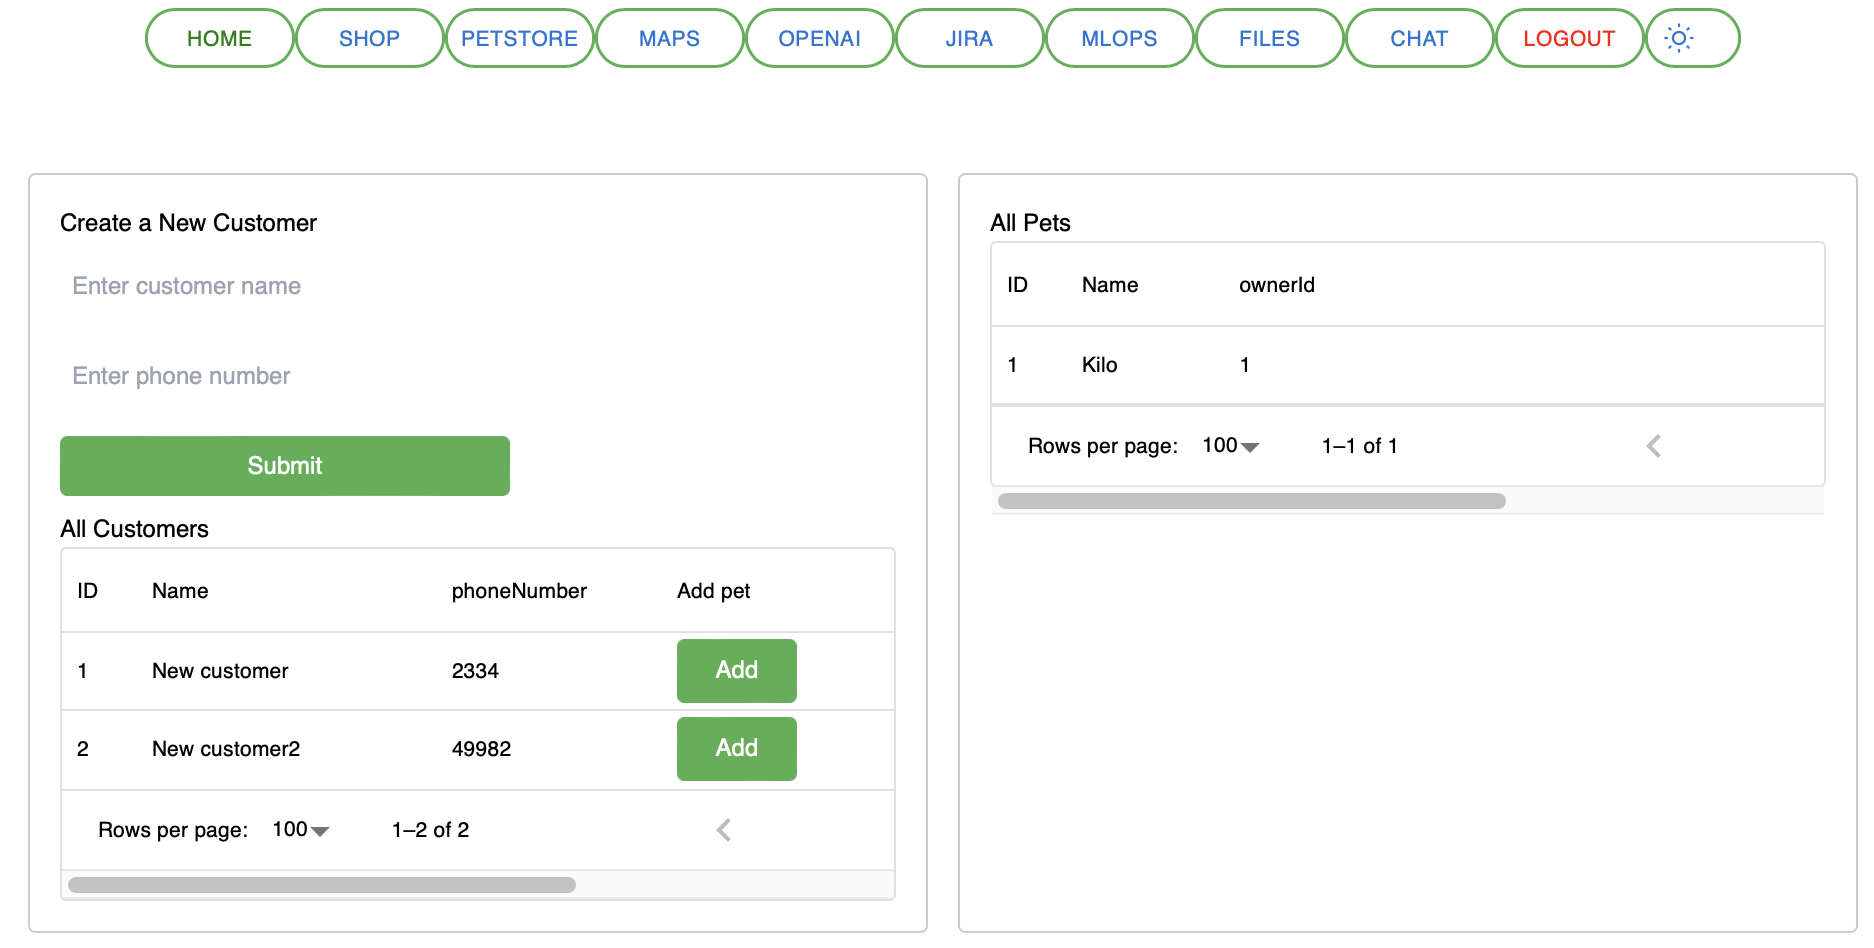
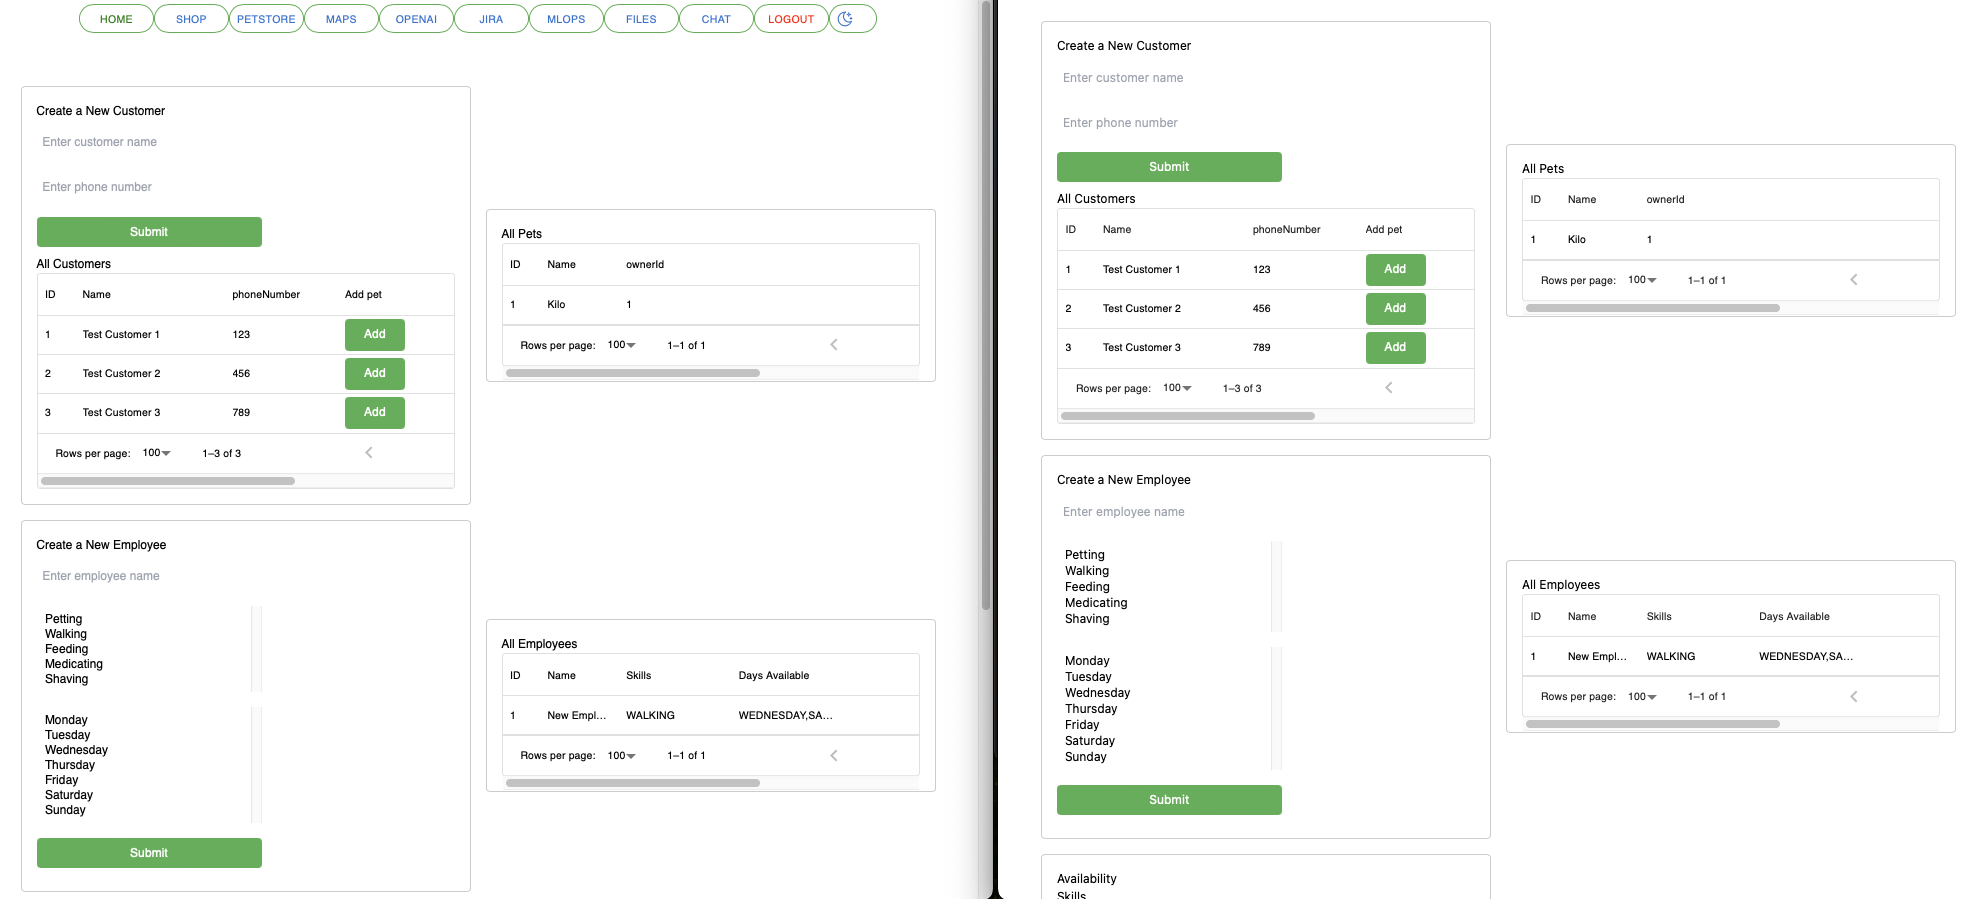
- add README instructions for all implemented MFEs - control NEXT env variables from docker-compose-app.yml

diff --git a/frontend/remote/openai/pages/index.tsx b/frontend/remote/openai/pages/index.tsx
@@ -115,10 +115,10 @@ export default function Index(this: any) {
     };
 
     return (
-        <>
-                    <div className="login-top">
-                        <h1>{("Send a OpenAI Completition request")}</h1>
-                    </div>
+        <div className="flex w-full flex-col items-center justify-center">
+            <div className="login-top">
+                <h1>{("Send a OpenAI Completition request")}</h1>
+            </div>
             <form onSubmit={handleSubmit}>
                 <label>
                     Prompt:
@@ -142,27 +142,27 @@ export default function Index(this: any) {
                 <br/>
             </form>
             <div className="login-top">
-                        <h1>{("Send an DALL-E request")}</h1>
-                    </div>
-                    <form onSubmit={handleDalleSubmit}>
-                        <label>
-                            Prompt:
-                            <input
-                                type="text"
-                                name="prompt"
-                                placeholder="Enter DALL-E prompt"
-                                onChange={handleDalleChange}
-                                // value={values.prompt}
-                                maxLength={150}
-                                required
-                                size={50}
-                            />
-                        </label>
-                        <input className="submitbutton" id="loginButton" type="submit" value="Submit"/>
-                        <br/>
-                    </form>
-                {DalleFeedback && <img src={DalleFeedback.url}></img>}
-        </>
+                <h1>{("Send an DALL-E request")}</h1>
+            </div>
+            <form onSubmit={handleDalleSubmit}>
+                <label>
+                    Prompt:
+                    <input
+                        type="text"
+                        name="prompt"
+                        placeholder="Enter DALL-E prompt"
+                        onChange={handleDalleChange}
+                        // value={values.prompt}
+                        maxLength={150}
+                        required
+                        size={50}
+                    />
+                </label>
+                <input className="submitbutton" id="loginButton" type="submit" value="Submit"/>
+                <br/>
+            </form>
+            {DalleFeedback && <img src={DalleFeedback.url}></img>}
+        </div>
 
 
     )

diff --git a/frontend/remote/jira/pages/index.tsx b/frontend/remote/jira/pages/index.tsx
@@ -86,7 +86,7 @@ export default function Index(this: any) {
         console.log("postData: ", postData);
         axios.post(jiraProxy + "/get", postData, axiosConfig)
             .then((response) => {
-                console.log("RESPONSE RECEIVED: ", response.data.issues);
+                console.log("RESPONSE RECEIVED: ", response);
                 setTickets(response.data.issues)
 
             })
@@ -217,11 +217,11 @@ export default function Index(this: any) {
     console.log('tickets', tickets)
 
     const columnsButton: GridColDef[] = [
-        {field: "key", headerName: "Key", minWidth: 50},
+        {field: "key", headerName: "Key", width: 80},
         {
             field: "summary",
             headerName: "Summary",
-            minWidth: 150,
+            width: 150,
             renderCell: (params) => {
                 return <div className="rowitem">{params.row.fields.summary}</div>;
             },
@@ -229,7 +229,7 @@ export default function Index(this: any) {
         {
             field: "description",
             headerName: "Description",
-            minWidth: 100,
+            width: 150, flex: 1,
             renderCell: (params) => {
                 return <div className="rowitem">{params.row.fields.description}</div>;
             },
@@ -238,7 +238,7 @@ export default function Index(this: any) {
             field: "edit",
             headerName: "Edit",
             sortable: false,
-            minWidth: 110,
+            width: 110,
             renderCell: ({row}) =>
                 <>
                     <button className="submitbutton"
@@ -251,7 +251,7 @@ export default function Index(this: any) {
             field: "delete",
             headerName: "Delete",
             sortable: false,
-            minWidth: 110,
+            width: 110,
             renderCell: ({row}) =>
                 <>
                     <button className="clearbutton"

diff --git a/frontend/remote/petstore/pages/index.tsx b/frontend/remote/petstore/pages/index.tsx
@@ -458,7 +458,7 @@ export default function Index(this: any) {
     ];
 
     return (
-        <div className="flex-container">
+        <div className="flex-container px-4 pb-4 pt-6 flex items-center justify-center">
             <div className="section">
                 <h1>Create a New Customer</h1>
                 <form onSubmit={handleCustomerSubmit}>

diff --git a/README.md b/README.md
@@ -6,8 +6,8 @@ Welcome to my dynamic portfolio, showcasing cutting-edge projects from my Web De
 
 ## What's Inside?
 
-- **CloudApp - Interactive Next.js 14 App Shell and Micro Frontend**: Experience the sleek Next.js interface designed to interact seamlessly with the backend services.  [Explore the frontend](./frontend/cloudapp/README.md).
-    - A micro frontend setup with an app shell solution to enable independently deployable front-end modules, improving scalability and maintainability. [Check details](#4-maps-with-micro-frontend-module-federation)
+- **CloudApp - Interactive Next.js 14 App Shell and Micro Frontend**: Experience the sleek Next.js interface designed to interact seamlessly with the backend services.  [Explore the frontend](./frontend/cloudapp-shell/README.md).
+    - A micro frontend setup with an app shell solution to enable independently deployable front-end modules, improving scalability and maintainability. [Check details](#4-maps-with-vehicle-locations)
 - **Microservices Architecture**: Dive into backend API services crafted during my Nanodegree. More about backend services: [cloudapp](./backend/cloudapp/README.md), [petstore](./backend/petstore/README.md), [vehicles-api](./backend/vehicles-api/README.md), [jira-proxy](./backend/web-proxy/README.md).
 - **Load Balancer and Reverse Proxy**: Utilize Nginx to efficiently distribute traffic among servers and enhance performance and reliability of applications.   [Read more](https://www.nginx.com).
 - **Advanced ML Pipeline**: Leverage my Python-based machine learning pipeline for dynamic customer segmentation, developed during my Predictive Analytics Nanodegree. [See ML details](./backend/ml-pipeline/README.md).
@@ -59,6 +59,14 @@ View results:
 - Pictures: correlation between parameters and the different segments.
 - Table: current list of customers from postgres db.
 
+The module is built as Micro Frontend:  
+1. Left side main CloudApp-Shell as App Shell using the Maps micro frontend:  
+http://localhost:5001/mlops  
+2. Right side module federated Maps micro frontend:   
+http://localhost:5005  
+
+![](examples/11a.png)
+
 
 ## 2. Shop interface for [Cloudapp web store REST API](backend/cloudapp/README.md), 
 ![](examples/4.png)
@@ -74,6 +82,12 @@ Shop API documentation:
 - [Order](http://localhost:8099/cloudapp/swagger-ui/index.html#/order-controller)
 
 ## 3. Pet Store interface for the [Pet Store's REST API](backend/petstore/README.md)
+The module is built as Micro Frontend:  
+1. Left side main CloudApp-Shell as App Shell using the Maps micro frontend:  
+http://localhost:5001/petstore  
+2. Right side module federated Maps micro frontend:   
+http://localhost:5006
+
 ![](examples/5.png)
 The user is able to:
 - Add new customer.
@@ -83,11 +97,13 @@ The user is able to:
 - Plan a new schedule for an employee and assign it to a pet.
 
 
-## 4.  Maps with Micro Frontend Module federation
-Left side main CloudApp-Shell as App Shell using the Maps micro frontend:
+## 4.  Maps with vehicle locations
+The module is built as Micro Frontend:  
+1. Left side main CloudApp-Shell as App Shell using the Maps micro frontend:  
 http://localhost:5001/maps  
-Right side module federated Maps micro frontend:   
+2. Right side module federated Maps micro frontend:   
 http://localhost:5002
+
 ![](examples/8.png)
 Map interface for integrating Open Street Map with the [Vehicle location service's REST API](backend/vehicles-api/README.md).
 The user is able to:
@@ -100,8 +116,16 @@ Vehicels [API documentation](http://localhost:8880/vehicles/swagger-ui.html)
 ![](examples/9.png)
 OpenAI interface for communicating with
 the [OpenAI API](https://platform.openai.com/docs/api-reference), the user is able to:
-- Send a prompt to ChatGPT and receive a response..
+- Send a prompt to ChatGPT and receive a response.
 - Send a prompt to DallE and receive an image response.
+
+The module is built as Micro Frontend:  
+1. Left side main CloudApp-Shell as App Shell using the Maps micro frontend:  
+http://localhost:5001/openai
+2. Right side module federated Maps micro frontend:   
+http://localhost:5004
+
+![](examples/9a.png)
   
 
 ## 6. Jira
@@ -138,17 +162,18 @@ A Kafka based chat service, the user is able to:
 If OpenAI and Jira functionality is to be used, follow the instructions below:
 
 ## OpenAI API key:
-To be stored in the .env file in the frontend/cloudapp-shell root directory in this format:
+Comment out this in the [docker-compose-app.yml](./docker-compose-app.yml) file in root directory:
 
 ```bash
-NEXT_PUBLIC_OPENAI_KEY==xxxxxxxxxxxxxx
+NEXT_PUBLIC_OPENAI_KEY: sk-za-------YOUR-API-KEY------8Ie
 ```
 ## Jira API key, [how to register](https://www.atlassian.com/software/jira/free) and [how to get an API key](https://support.atlassian.com/atlassian-account/docs/manage-api-tokens-for-your-atlassian-account/)
 
-Frontend: Add .env file at frontend/cloudapp-shell root directory in this format:
+Comment out these in the [docker-compose-app.yml](./docker-compose-app.yml) file in root directory:
+
 ```bash
-NEXT_PUBLIC_JIRA_DOMAIN = 'https://xxxx.atlassian.net'
-NEXT_PUBLIC_JIRA_KEY = Y3......2edd (note: no single quotation)
+NEXT_PUBLIC_JIRA_DOMAIN: 'https://your-jira-instance.atlassian.net'
+NEXT_PUBLIC_JIRA_KEY: Y3NhYmFqYWthYm-------YOUR-API-KEY------SDA9REUzRjY4N0M=
 ```
 NOTE: the next-frontend Docker image needs to be rebuilt after editing the .env file.
 
